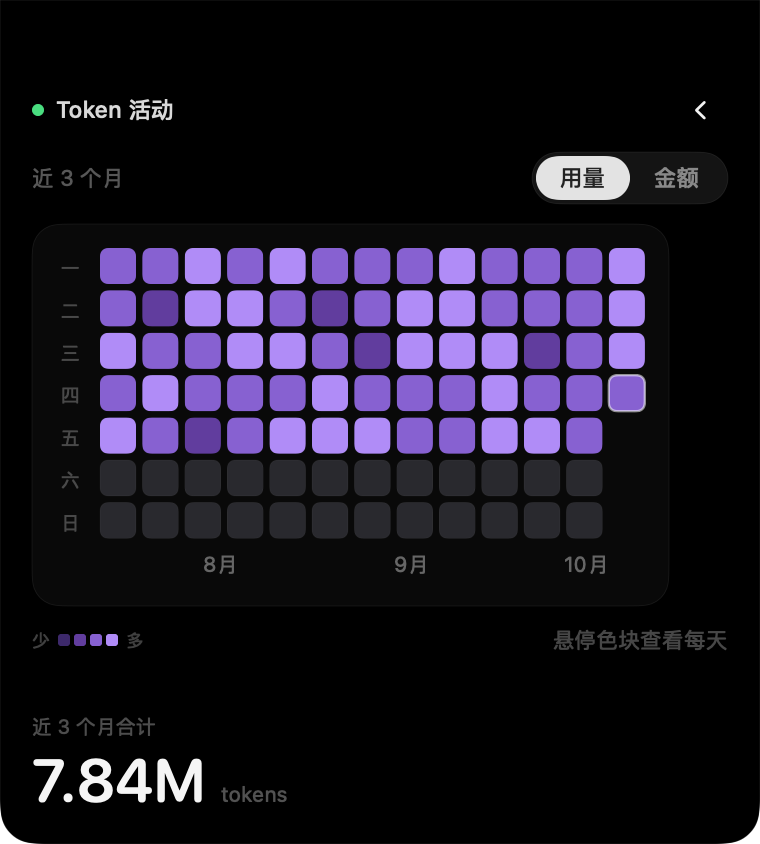
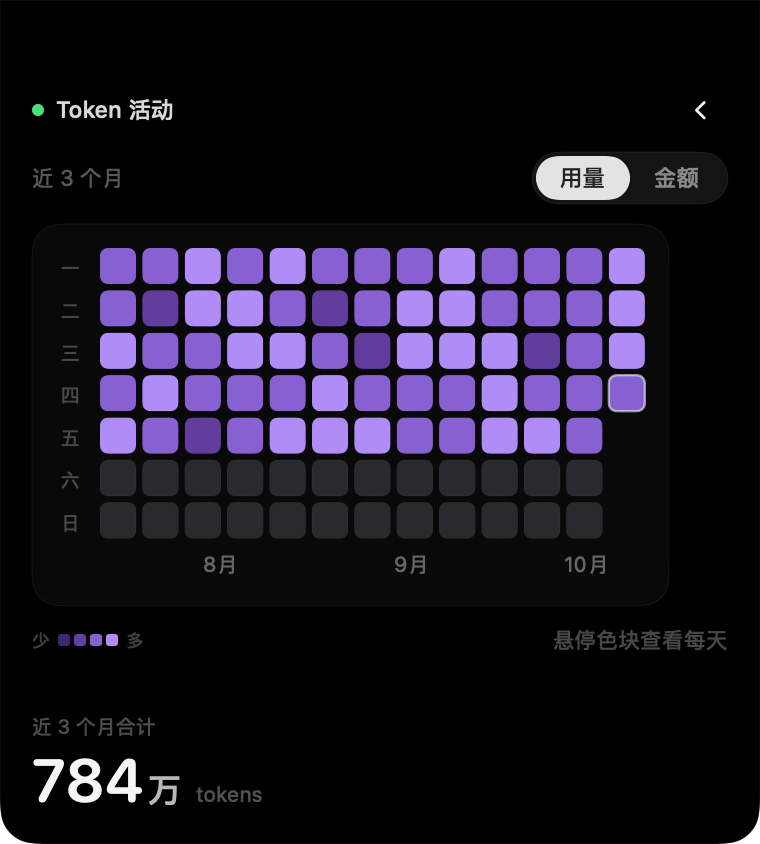
ui: token 单位改为中文（万/亿），合计数字与单位分层排版

Changed region(s): [[0.0908, 0.8934, 0.3934, 0.955]]

diff --git a/Sources/main.swift b/Sources/main.swift
@@ -1117,9 +1117,10 @@ func runCalendarCheck() -> Int32 {
     )
     check(
         "日历：token 文案",
-        TokenActivityCalendar.compactCount(1_240_000) == "1.24M" &&
-            TokenActivityCalendar.compactCount(83_000) == "83.0k" &&
-            TokenActivityCalendar.compactCount(13_461_877_705) == "13.46B" &&
+        TokenActivityCalendar.compactCount(1_240_000) == "124万" &&
+            TokenActivityCalendar.compactCount(83_000) == "8.3万" &&
+            TokenActivityCalendar.compactCount(13_461_877_705) == "134.62亿" &&
+            TokenActivityCalendar.compactCount(9_999) == "9999" &&
             TokenActivityCalendar.compactCount(999) == "999",
     )
     check(
@@ -1127,7 +1128,7 @@ func runCalendarCheck() -> Int32 {
         TokenActivityCalendar.hoverText(
             for: ActivityCell(date: "2026-10-21", tokens: 1_240_000, cost: 0.42),
             metric: .tokens,
-        ) == "10月21日 · 1.24M tokens",
+        ) == "10月21日 · 124万 tokens",
         TokenActivityCalendar.hoverText(
             for: ActivityCell(date: "2026-10-21", tokens: 1_240_000, cost: 0.42),
             metric: .tokens,
@@ -1181,7 +1182,7 @@ func runSessionCostCheck() -> Int32 {
     check("金额 ≈¥0.42", snapshot?.moneyText == "≈¥0.42", snapshot?.moneyText ?? "nil")
     check(
         "tokens 文案",
-        snapshot?.tokensText == "输入 1.24M（缓存 980.0k）· 输出 83.0k",
+        snapshot?.tokensText == "输入 124万（缓存 98万）· 输出 8.3万",
         snapshot?.tokensText ?? "nil",
     )
 
@@ -1200,8 +1201,8 @@ func runSessionCostCheck() -> Int32 {
     check("formatCny 小额三/四位", SessionCostSnapshot.formatCny(0.0421) == "0.042"
           && SessionCostSnapshot.formatCny(0.00042) == "0.0004")
     check("compactCount", SessionCostSnapshot.compactCount(999) == "999"
-          && SessionCostSnapshot.compactCount(1_240_000) == "1.24M"
-          && SessionCostSnapshot.compactCount(83_000) == "83.0k",
+          && SessionCostSnapshot.compactCount(1_240_000) == "124万"
+          && SessionCostSnapshot.compactCount(83_000) == "8.3万",
           "\(SessionCostSnapshot.compactCount(999)) / \(SessionCostSnapshot.compactCount(1_240_000)) / \(SessionCostSnapshot.compactCount(83_000))")
 
     print("")

diff --git a/Sources/Views.swift b/Sources/Views.swift
@@ -688,13 +688,20 @@ private struct CalendarPageView: View {
                     Text("近 3 个月合计")
                         .font(.system(size: 10))
                         .foregroundStyle(.white.opacity(0.30))
-                    HStack(alignment: .firstTextBaseline, spacing: 7) {
-                        Text(totalText(activity))
+                    let parts = totalParts(activity)
+                    HStack(alignment: .firstTextBaseline, spacing: 2) {
+                        Text(parts.value)
                             .font(.system(size: 30, weight: .semibold, design: .rounded))
                             .foregroundStyle(.white.opacity(0.96))
+                        if !parts.unit.isEmpty {
+                            Text(parts.unit)
+                                .font(.system(size: 17, weight: .semibold, design: .rounded))
+                                .foregroundStyle(.white.opacity(0.72))
+                        }
                         Text(metric == .tokens ? "tokens" : "预估金额")
                             .font(.system(size: 10.5))
                             .foregroundStyle(.white.opacity(0.32))
+                            .padding(.leading, 5)
                     }
                 }
                 .padding(.bottom, 2)
@@ -717,14 +724,18 @@ private struct CalendarPageView: View {
         }
     }
 
-    private func totalText(_ activity: TokenActivity) -> String {
+    private func totalParts(_ activity: TokenActivity) -> (value: String, unit: String) {
         let cells = TokenActivityCalendar.build(days: activity.days).allCells
+        let text: String
         switch metric {
         case .tokens:
-            return TokenActivityCalendar.compactCount(cells.reduce(0) { $0 + $1.tokens })
+            text = TokenActivityCalendar.compactCount(cells.reduce(0) { $0 + $1.tokens })
         case .money:
-            return "≈¥" + SessionCostSnapshot.formatCny(cells.reduce(0) { $0 + $1.cost })
+            return ("≈¥" + SessionCostSnapshot.formatCny(cells.reduce(0) { $0 + $1.cost }), "")
         }
+        if text.hasSuffix("亿") { return (String(text.dropLast()), "亿") }
+        if text.hasSuffix("万") { return (String(text.dropLast()), "万") }
+        return (text, "")
     }
 }
 

diff --git a/Sources/TokenActivity.swift b/Sources/TokenActivity.swift
@@ -218,13 +218,27 @@ enum TokenActivityCalendar {
         return Color(red: value.0, green: value.1, blue: value.2)
     }
 
-    /// token 数：123 / 12.3k / 1.24M
+    /// token 数用中文单位：8320 / 1.23万 / 784万 / 4.9亿 / 134.62亿
     static func compactCount(_ value: Int) -> String {
         guard value > 0 else { return "0" }
-        if value >= 1_000_000_000 { return String(format: "%.2fB", Double(value) / 1_000_000_000) }
-        if value >= 1_000_000 { return String(format: "%.2fM", Double(value) / 1_000_000) }
-        if value >= 1_000 { return String(format: "%.1fk", Double(value) / 1_000) }
+        if value >= 100_000_000 {
+            return trimNumber(String(format: "%.2f", Double(value) / 100_000_000)) + "亿"
+        }
+        if value >= 10_000 {
+            let wan = Double(value) / 10_000
+            let digits = wan >= 100 ? 0 : (wan >= 10 ? 1 : 2)
+            return trimNumber(String(format: "%.\(digits)f", wan)) + "万"
+        }
         return String(value)
+    }
+
+    /// 去掉小数末尾的 0：1.00 → 1、4.90 → 4.9
+    static func trimNumber(_ text: String) -> String {
+        guard text.contains(".") else { return text }
+        var value = text
+        while value.hasSuffix("0") { value.removeLast() }
+        if value.hasSuffix(".") { value.removeLast() }
+        return value
     }
 
     /// 悬停文案：10月22日 · 1.24M tokens / ≈¥0.42

diff --git a/Sources/SessionCost.swift b/Sources/SessionCost.swift
@@ -95,15 +95,25 @@ struct SessionCostSnapshot: Codable, Equatable {
         return fixed == "0.0000" ? "<0.0001" : fixed
     }
 
-    /// token 数：123 / 12.3k / 1.24M
+    /// token 数用中文单位：8320 / 1.23万 / 784万 / 4.9亿 / 134.62亿
     static func compactCount(_ value: Int) -> String {
         guard value > 0 else { return "0" }
-        if value >= 1_000_000 {
-            return String(format: "%.2fM", Double(value) / 1_000_000)
+        if value >= 100_000_000 {
+            return trimNumber(String(format: "%.2f", Double(value) / 100_000_000)) + "亿"
         }
-        if value >= 1_000 {
-            return String(format: "%.1fk", Double(value) / 1_000)
+        if value >= 10_000 {
+            let wan = Double(value) / 10_000
+            let digits = wan >= 100 ? 0 : (wan >= 10 ? 1 : 2)
+            return trimNumber(String(format: "%.\(digits)f", wan)) + "万"
         }
         return String(value)
+    }
+
+    static func trimNumber(_ text: String) -> String {
+        guard text.contains(".") else { return text }
+        var value = text
+        while value.hasSuffix("0") { value.removeLast() }
+        if value.hasSuffix(".") { value.removeLast() }
+        return value
     }
 }

diff --git a/windows/src/DSHNotch/TokenActivity.cs b/windows/src/DSHNotch/TokenActivity.cs
@@ -379,14 +379,27 @@ public static class TokenActivityCalendar
         Color.FromArgb(255, 74, 191, 125),
     };
 
-    /// <summary>token 数：123 / 12.3k / 1.24M / 13.46B。</summary>
+    /// <summary>token 数用中文单位：123 / 1.23万 / 124万 / 134.6亿。</summary>
     public static string CompactCount(long value)
     {
         if (value <= 0) return "0";
-        if (value >= 1_000_000_000) return (value / 1_000_000_000d).ToString("0.00", CultureInfo.InvariantCulture) + "B";
-        if (value >= 1_000_000) return (value / 1_000_000d).ToString("0.00", CultureInfo.InvariantCulture) + "M";
-        if (value >= 1_000) return (value / 1_000d).ToString("0.0", CultureInfo.InvariantCulture) + "k";
+        if (value >= 100_000_000)
+        {
+            return TrimNumber((value / 100_000_000d).ToString("0.00", CultureInfo.InvariantCulture)) + "亿";
+        }
+        if (value >= 10_000)
+        {
+            var wan = value / 10_000d;
+            var digits = wan >= 100 ? 0 : (wan >= 10 ? 1 : 2);
+            return TrimNumber(wan.ToString("F" + digits.ToString(CultureInfo.InvariantCulture), CultureInfo.InvariantCulture)) + "万";
+        }
         return value.ToString(CultureInfo.InvariantCulture);
+    }
+
+    private static string TrimNumber(string text)
+    {
+        if (!text.Contains('.')) return text;
+        return text.TrimEnd('0').TrimEnd('.');
     }
 
     /// <summary>日期文案：2026-10-21 → 10月21日。</summary>
@@ -400,7 +413,7 @@ public static class TokenActivityCalendar
         return date ?? string.Empty;
     }
 
-    /// <summary>悬停文案：10月21日 · 1.24M tokens / 10月21日 · ≈¥0.42。</summary>
+    /// <summary>悬停文案：10月21日 · 124万 tokens / 10月21日 · ≈¥0.42。</summary>
     public static string HoverText(ActivityCell cell, ActivityMetric metric)
     {
         return DayLabel(cell.Date) + " · " + cell.Text(metric);
@@ -463,7 +476,7 @@ public sealed class TokenActivityView
 
     public bool HasData { get; }
 
-    /// <summary>「1.24M tokens」或「≈¥12.34」；无数据时为空字符串。</summary>
+    /// <summary>「124万 tokens」或「≈¥12.34」；无数据时为空字符串。</summary>
     public string TotalText { get; }
 
     public static TokenActivityView Create(TokenActivitySnapshot? snapshot, ActivityMetric metric, DateTime today)

diff --git a/windows/tests/DSHNotch.Tests/TokenActivityTests.cs b/windows/tests/DSHNotch.Tests/TokenActivityTests.cs
@@ -356,11 +356,11 @@ public sealed class TokenActivityTests
         Assert.Equal("0", TokenActivityCalendar.CompactCount(0));
         Assert.Equal("123", TokenActivityCalendar.CompactCount(123));
         Assert.Equal("999", TokenActivityCalendar.CompactCount(999));
-        Assert.Equal("1.0k", TokenActivityCalendar.CompactCount(1000));
-        Assert.Equal("12.3k", TokenActivityCalendar.CompactCount(12_345));
-        Assert.Equal("83.0k", TokenActivityCalendar.CompactCount(83_000));
-        Assert.Equal("1.24M", TokenActivityCalendar.CompactCount(1_240_000));
-        Assert.Equal("13.46B", TokenActivityCalendar.CompactCount(13_460_000_000));
+        Assert.Equal("1000", TokenActivityCalendar.CompactCount(1000));
+        Assert.Equal("1.23万", TokenActivityCalendar.CompactCount(12_345));
+        Assert.Equal("8.3万", TokenActivityCalendar.CompactCount(83_000));
+        Assert.Equal("124万", TokenActivityCalendar.CompactCount(1_240_000));
+        Assert.Equal("134.6亿", TokenActivityCalendar.CompactCount(13_460_000_000));
     }
 
     [Fact]
@@ -368,7 +368,7 @@ public sealed class TokenActivityTests
     {
         var cell = new ActivityCell("2026-10-21", 1_240_000, 0.42m);
 
-        Assert.Equal("10月21日 · 1.24M tokens", TokenActivityCalendar.HoverText(cell, ActivityMetric.Tokens));
+        Assert.Equal("10月21日 · 124万 tokens", TokenActivityCalendar.HoverText(cell, ActivityMetric.Tokens));
         Assert.Equal("10月21日 · ≈¥0.42", TokenActivityCalendar.HoverText(cell, ActivityMetric.Money));
     }
 

diff --git a/windows/README.md b/windows/README.md
@@ -138,9 +138,9 @@ Get-Content "$env:USERPROFILE\.dsh\notch\session-cost.json"
 - 顶部「用量 / 金额」胶囊切换：**用量是紫色系、金额是绿色系**，一眼区分口径；
 - 自绘 53×7 热力格（不是几千个 Label）：颜色档位按「当天值 / 最大值」开方分 4 档，
   0 表示当天没有数据；
-- 悬停色块：白框高亮，并在格下方显示「10月21日 · 1.24M tokens」或「10月21日 · ≈¥0.42」；
+- 悬停色块：白框高亮，并在格下方显示「10月21日 · 124万 tokens」或「10月21日 · ≈¥0.42」；
 - 下方月份标签（相邻太近时用更近的月份替换，避免重叠）；
-- 底部「近 6 个月合计」（token 用 1.24M / 13.46B 这类紧凑写法，金额 `≈¥12.34`）。
+- 底部「近 6 个月合计」（token 用 124万 / 134.6亿 这类中文单位，金额 `≈¥12.34`）。
 
 读取与降级：
 

diff --git a/docs/token-activity.md b/docs/token-activity.md
@@ -56,7 +56,7 @@ DSH 没有「每日用量」接口，但每个会话日志里都有 `assistant/m
 - 卡片标题栏新增日历按钮，点击切换到日历页；再点左上角返回
 - 日历页顶部「用量 / 金额」切换：token 用紫色系，金额用绿色系
 - 13 列 × 7 行热力格（周一开头，约 3 个月），月份标签在下方
-- 鼠标悬停色块：白框高亮 + 色块下方固定一行显示「10月21日 · 1.24M tokens / ≈¥0.42」
+- 鼠标悬停色块：白框高亮 + 色块下方固定一行显示「10月21日 · 124万 tokens / ≈¥0.42」
 - 底部显示近 3 个月合计；没有数据时显示占位提示
 
 ## 验收
